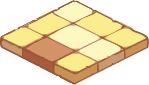
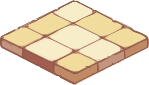
增加几个地块

Changed region(s): [[0.1611, 0.4235, 0.5369, 0.7294]]

diff --git a/assets/src/views/main/EditUIView.ts b/assets/src/views/main/EditUIView.ts
@@ -3,7 +3,7 @@ import CCUtil from '../../util/CCUtil';
 import { MapConfig, MapStatus } from '../../config/MapConfig';
 import { MainScene } from './MainScene';
 import { EditItem } from '../map/EditItem';
-import { DataMgr } from '../../manager/DataMgr';
+import { DataMgr, EditType } from '../../manager/DataMgr';
 const { ccclass, property } = _decorator;
 
 @ccclass('EditUIView')
@@ -59,7 +59,21 @@ export class EditUIView extends Component {
     }
     // 标题所有按钮点击 
     onBtnAllClick() {
-
+        this.scrollView.removeAllChildren();
+        let editConfig = DataMgr.instance.editInfo;
+        editConfig.forEach(info => {
+            let node = instantiate(this.editItem);
+            this.scrollView.addChild(node);
+            node.getComponent(EditItem).initData(info, this.onEditItemClick.bind(this));
+        });
+        // for (let key in editConfig) {
+        //     if (Object.prototype.hasOwnProperty.call(editConfig, key)) {
+        //         let info = editConfig[key];
+        //         let node = instantiate(this.editItem);
+        //         this.scrollView.addChild(node);
+        //         node.getComponent(EditItem).initData(info, this.onEditItemClick.bind(this));
+        //     }
+        // }
     }
     // 标题特殊按钮点击 
     onBtnSpecialClick() {
@@ -75,6 +89,14 @@ export class EditUIView extends Component {
     }
     // 标题地块按钮点击 
     onBtnLandClick() {
+        this.scrollView.removeAllChildren();
+        let editConfig = DataMgr.instance.editInfo;
+        editConfig.forEach(info => {
+            if (EditType.Land != info.type) return;
+            let node = instantiate(this.editItem);
+            this.scrollView.addChild(node);
+            node.getComponent(EditItem).initData(info, this.onEditItemClick.bind(this));
+        });
     }
     // 关闭按钮点击 
     onBtnCloseClick() {
@@ -87,16 +109,7 @@ export class EditUIView extends Component {
     }
     // 初始化数据
     initData() {
-        this.scrollView.removeAllChildren();
-        let editConfig = DataMgr.instance.editInfo;
-        for (let key in editConfig) {
-            if (Object.prototype.hasOwnProperty.call(editConfig, key)) {
-                let info = editConfig[key];
-                let node = instantiate(this.editItem);
-                this.scrollView.addChild(node);
-                node.getComponent(EditItem).initData(info, this.onEditItemClick.bind(this));
-            }
-        }
+        this.onBtnAllClick();
     }
     // 编辑元素点击
     onEditItemClick(editItem: EditItem) {
